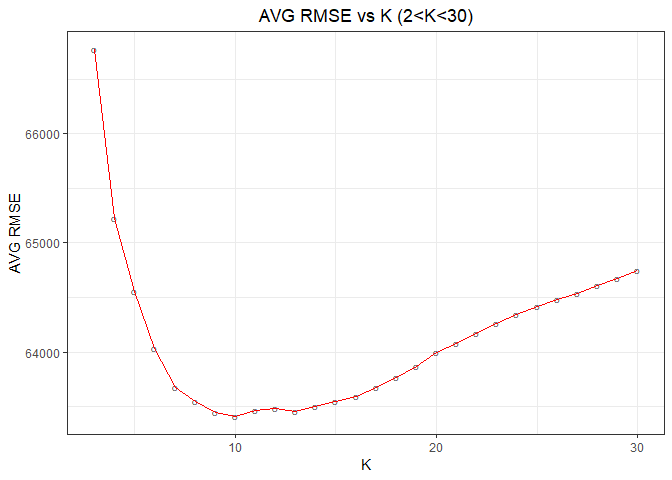
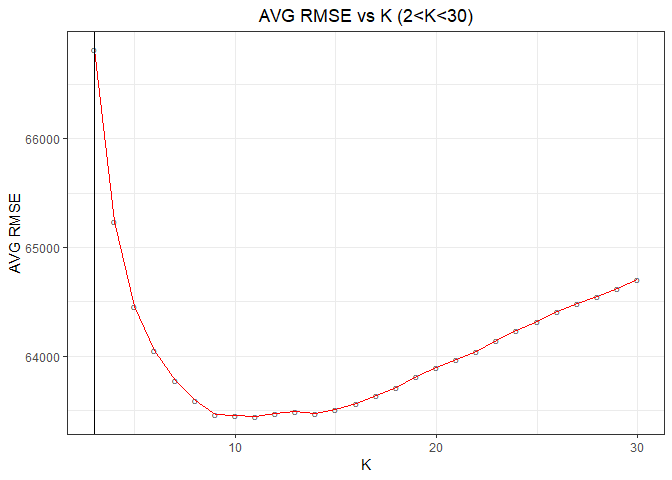
latest version

diff --git a/HW2/report/Exercise_2_report.md b/HW2/report/Exercise_2_report.md
@@ -10,19 +10,29 @@ Long story short, we "hand-build" a model for price that outperforms the "medium
 
 The models that we checked are listed below.
 
+``` r
+model1 = price ~ lotSize + age + livingArea + pctCollege + bedrooms + fireplaces + bathrooms + rooms + heating + fuel + centralAir
+model2 = price ~ lotSize + age + livingArea + pctCollege*fireplaces + bedrooms  + bathrooms + rooms + heating + centralAir
+model3 = price ~ landValue + livingArea + pctCollege + bedrooms + fireplaces + bathrooms + rooms + heating + fuel + centralAir
+model4 = price ~ landValue + livingArea + bedrooms + bathrooms + rooms + heating + fuel + centralAir
+model5 = price ~ landValue + lotSize*(bedrooms + bathrooms) + livingArea*(fuel+ heating + centralAir) + pctCollege*(fireplaces+age) + rooms
+model6 = price ~ landValue + lotSize*bedrooms + livingArea*fuel + pctCollege*(fireplaces+age) + bathrooms + rooms + heating + centralAir
+model7 = price ~ landValue + lotSize*bedrooms + livingArea*fuel + pctCollege*(fireplaces+age) + centralAir
+```
+
 The performance of the models are mesured with average out-of-sample RMSE. We use the 80% of the data to do regressions and calculate RMSE for the rest 20%, and rerun the Monte Carlo training-testing split to calculate the average RMSE. The result of the models are listed below.
 
 |         | AVG RMSE |
 |---------|:--------:|
-| model 1 | 66753.16 |
-| model 2 | 66541.42 |
-| model 3 | 60597.09 |
-| model 4 | 60515.53 |
-| model 5 | 59774.60 |
-| model 6 | 60146.12 |
-| model 7 | 60947.73 |
+| model 1 | 66519.70 |
+| model 2 | 66254.90 |
+| model 3 | 60769.80 |
+| model 4 | 60680.62 |
+| model 5 | 59915.80 |
+| model 6 | 60267.81 |
+| model 7 | 61008.73 |
 
-The best model that we solved is model 5. This model beats all the other models that we choose by having a smaller average RMSE of around 60000, while the average RMSE of the baseline model is around 66000. The regression result is:
+The best model that we solved is model 5. This model beats all the other models that we choose by having a smaller average RMSE of around 59900, while the average RMSE of the baseline model is around 66000. The regression result is:
 
 |                                   | coefficients.Estimate | coefficients.Std..Error | coefficients.t.value | coefficients.Pr...t.. |
 |-----------------------------------|:---------------------:|:-----------------------:|:--------------------:|:---------------------:|
@@ -61,46 +71,70 @@ Third, comparing with the apartments fueling with gas, the apartments fueling wi
 
 Forth, the interactions between the number of bedrooms or bathrooms and the lotsize are not significant, but the interactions between the living area and the fuel and whether the house has a central air conditioner is significant. To be more specific, the effect of the living area on the price of the room fueled with oil is lower than the room fueled with gas. And it is also true that the effect of the living area on the price of the room without a central air conditioner is lower than the room that has a central air conditioner.The interactions between whether the apartment is close to a college and the age of the house and the number of fireplaces are significant.
 
-By using exactly same variables in the linear regression model it is very hard to beat the linear regression with the KNN model.
+However, by using exactly same variables in the linear regression model it is very hard to beat the linear regression with the KNN model.
 
 ![](Exercise_2_report_files/figure-markdown_github/graph2.1.1-1.png)
 
-From the plot of average RMSE vs K we can tell the optimal K for the KNN model is about 10-15. The lowest average RMSE that we can get with KNN model is about 63000, which is still higher than the average RMSE that we conclude using a linear model with interactions.
+From the plot of average RMSE vs K we can tell the optimal K for the KNN model is about 10-12. The lowest average RMSE that we can get with KNN model is about 63000, which is still higher than the average RMSE that we conclude using a linear model with interactions.
 
 Exercise 2.2
 ------------
 
 ### Exercise 2.2.1
 
+First, in order to get the most accurate predictions of radiologists’ recall rates, we construct three logistic models. Because we need to take consideration that all the risk factors need to be constant, we choose age, history of breast biopsy/surgery, breast cancer symptom, menopause/hormone-therapy status and breast density classification as independent variables and recall as dependent variable in our logistic model. After considering the chance of interactions, we selected three following models:
+
+``` r
+model1 = recall~radiologist*(age+history+symptoms+menopause+density)
+model2 = recall~radiologist+age+history+symptoms+menopause+density
+model3 = recall~(radiologist+age+history+symptoms+menopause+density)^2
+```
+
+The performance of the models are measured with error rate, which is calculated by sum of the right diagonal numbers of confusion matrix divided by 987 screening mammograms. We use the 80% of the data to do logistic regressions and calculate error rate for the rest 20%, and rerun the Monte Carlo training-testing split to calculate the average error rate. The threshold that we used for the calculation is about 0.1509, which is the average rate for the recalled patients. The result of the models are listed below:
+
 |         |  AVG RMSE |
 |---------|:---------:|
-| model 1 | 0.4023858 |
-| model 2 | 0.4444162 |
-| model 3 | 0.4027411 |
+| model 1 | 0.4052284 |
+| model 2 | 0.4474112 |
+| model 3 | 0.3964467 |
+
+After running for several times, we found the error rate of model 1 and model 3 is significantly smaller than that of model 2. We use model 1 to predict in the following as the error rate of model 1 is slightly smaller than that of model 3.
+
+Then, we randomly chosen 100 samples, which consist of around 10% of 987 screening mammograms. After that, we repeat these 100 samples for 5 times each. In order to address the problem that the radiologists don’t see the same patients, we added an additional row, which is arranged by repeated series radiologist13, radiologist34, radiologist66, radiologist89 and radiologist95. Therefore, we let five radiologists see the same patients. Finally, we predict the recall rates of each radiologist with model 1. The results is below.
 
 | radiologist   |  Prob\_recall|
 |:--------------|-------------:|
-| radiologist13 |     0.1384862|
-| radiologist34 |     0.0967631|
-| radiologist66 |     0.1922398|
-| radiologist89 |     0.2058958|
-| radiologist95 |     0.1301504|
+| radiologist13 |     0.1357191|
+| radiologist34 |     0.0892768|
+| radiologist66 |     0.1894795|
+| radiologist89 |     0.2016454|
+| radiologist95 |     0.1244217|
+
+From the above table, we can clearly see that radiologist89 is most clinically conservative, whose recall rate is 0.23. Radiologist66, radiologist13, radiologist95 and radiologist34, ranked 2nd, 3rd, 4th and 5th respectivelly in terms of clinically conservative index.
+
+At last, we performed robust test on our results. We predicted recall rates by using model 2 and model 3. The below tables showed the results, which is consistent with the result predicted by model 1.
+
+    ## [1] "model 2"
 
 | radiologist   |  Prob\_recall|
 |:--------------|-------------:|
-| radiologist13 |     0.1311517|
-| radiologist34 |     0.0808854|
-| radiologist66 |     0.1781752|
-| radiologist89 |     0.1927664|
-| radiologist95 |     0.1248826|
+| radiologist13 |     0.1530652|
+| radiologist34 |     0.1027990|
+| radiologist66 |     0.2000887|
+| radiologist89 |     0.2146799|
+| radiologist95 |     0.1467961|
+
+    ## [1] "model 3"
 
 | radiologist   |  Prob\_recall|
 |:--------------|-------------:|
-| radiologist13 |     0.1359470|
-| radiologist34 |     0.0913719|
-| radiologist66 |     0.2015459|
-| radiologist89 |     0.2361697|
-| radiologist95 |     0.1333204|
+| radiologist13 |     0.1432242|
+| radiologist34 |     0.0935221|
+| radiologist66 |     0.1937180|
+| radiologist89 |     0.2547362|
+| radiologist95 |     0.1582047|
+
+In conclusion, holding patient risk factors equal, the order of clinically conservative characteristic in recalling patients is: radiologist89 &gt; radiologist66 &gt; radiologist13 &gt; radiologist95 &gt; radiologist34, when letting radiologists see the same patients.
 
 ### Exercise 2.2.2
 
@@ -109,6 +143,10 @@ The second point that we want to make is that when the radiologists at this hosp
 First we build the baseline model, which suggests that when the doctors recall a patient, they tend to think that the patient has a cancer.
 
 To formalize the model by regression, we regressed the patient’s cancer outcome on the radiologist’s recall decision with the logistic regression. The regression model is:
+
+``` r
+baseline = cancer ~ recall
+```
 
 We split the dataset into the training set and the testing set using the standard 80-20 rule, and re-run the regression for 100 times to eliminate the stochasticity, and ending up with similar rates to the ones calculated with the entire database.
 
@@ -120,14 +158,14 @@ Before we show the result of the models, we need to explain the criteria that we
 
 The average deviance of the models are listed in the following table:
 
-|          | AVG Deviation for Different Models |
-|----------|:----------------------------------:|
-| Baseline |              1.478730              |
-| Model 1  |              1.549682              |
-| Model 2  |              1.510544              |
-| Model 3  |              1.428182              |
+|          | AVG Deviance for Different Models |
+|----------|:---------------------------------:|
+| Baseline |              1.500853             |
+| Model 1  |              1.560098             |
+| Model 2  |              1.459631             |
+| Model 3  |              1.442899             |
 
-From the table we can tell that the Model 3 has the lowest average deviation, which means we can perform better than the doctors currently do if they give more weight on the terms in Model 3.
+From the table we can tell that the Model 3 has the lowest average deviation, which means we can perform better than the doctors currently do if they give more weight on the terms in Model 3. Overall we can say that the doctors did great jobs at identifying the patients who do get cancer. the drop between Model3 and the baseline is very small.
 
 The logistic regression of model 3 using the whole dataset is shown below:
 
@@ -170,23 +208,20 @@ Exercise 2.3
 
 |          |  Accurate Rate|
 |----------|--------------:|
-| share-LM |      0.4958772|
-| viral-LM |      0.5067676|
-| GLM      |      0.6276428|
+| share-LM |      0.4964523|
+| viral-LM |      0.5066414|
+| GLM      |      0.6270652|
 
 |           | prediction = 0 | prediction = 1 |
 |-----------|:--------------:|:--------------:|
-| viral = 0 |      2515      |      1513      |
-| viral = 1 |      1432      |      2469      |
+| viral = 0 |      2528      |      1508      |
+| viral = 1 |      1395      |      2498      |
 
 ![](Exercise_2_report_files/figure-markdown_github/table2.3.3-1.png)
 
-    ##    yhat
-    ## y      0    1
-    ##   0 2727 1356
-    ##   1 1577 2269
+![](Exercise_2_report_files/figure-markdown_github/share2.3.3-1.png)
 
 |           | prediction = 0 | prediction = 1 |
 |-----------|:--------------:|:--------------:|
-| viral = 0 |      2727      |      1356      |
-| viral = 1 |      1577      |      2269      |
+| viral = 0 |      2722      |      1279      |
+| viral = 1 |      1671      |      2257      |
